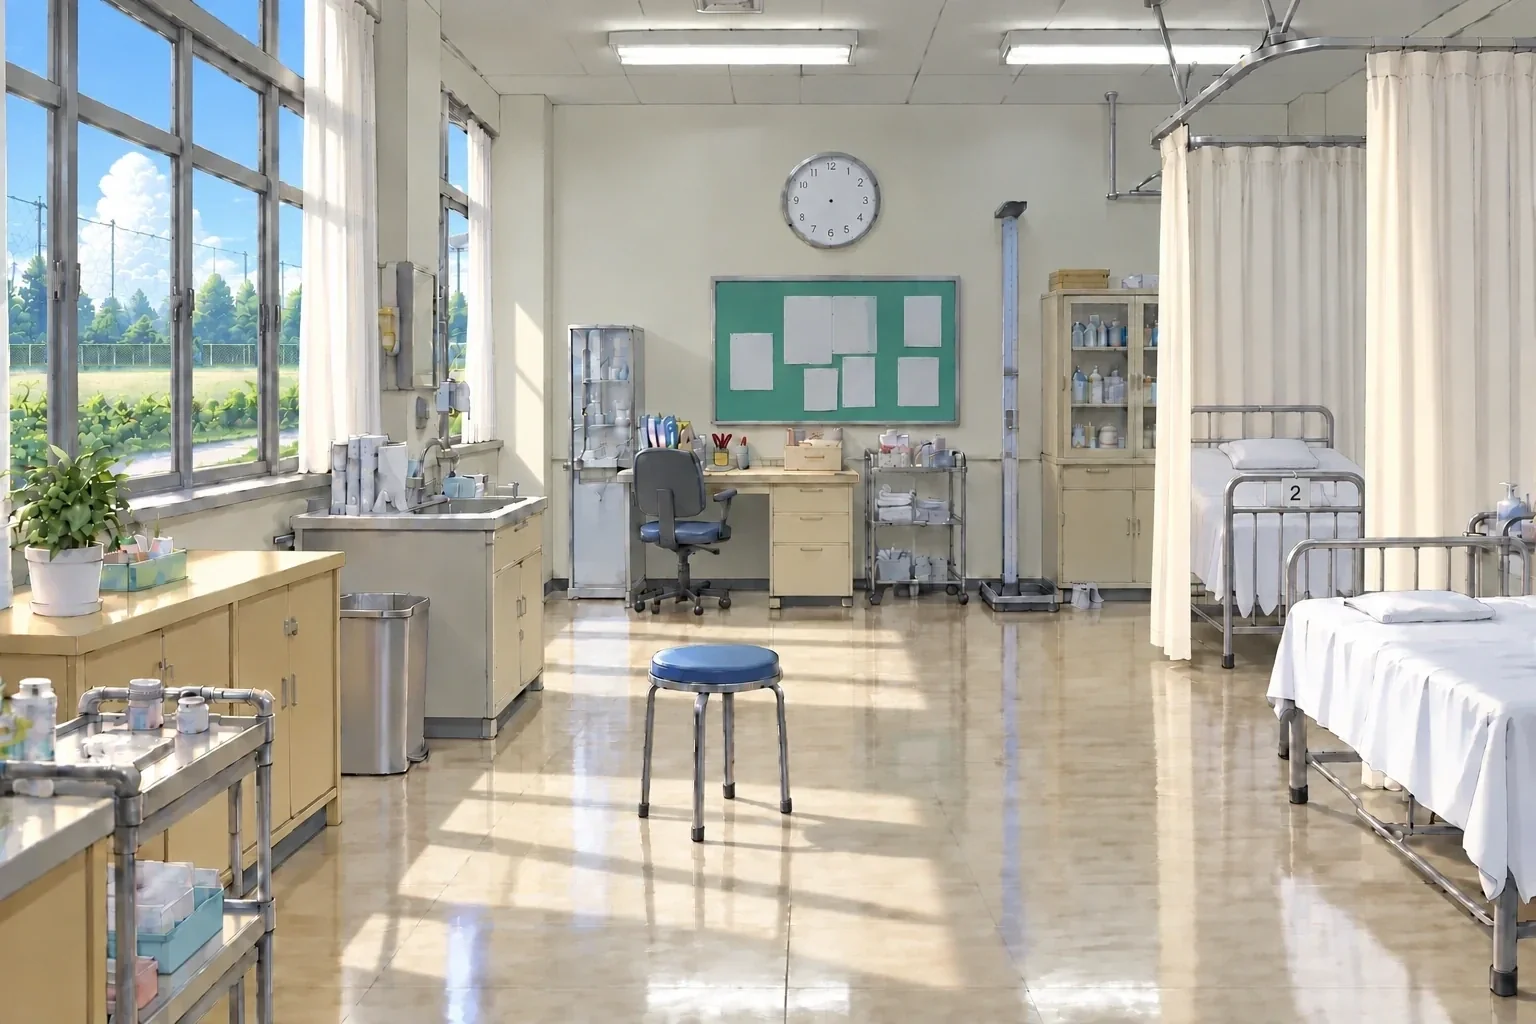
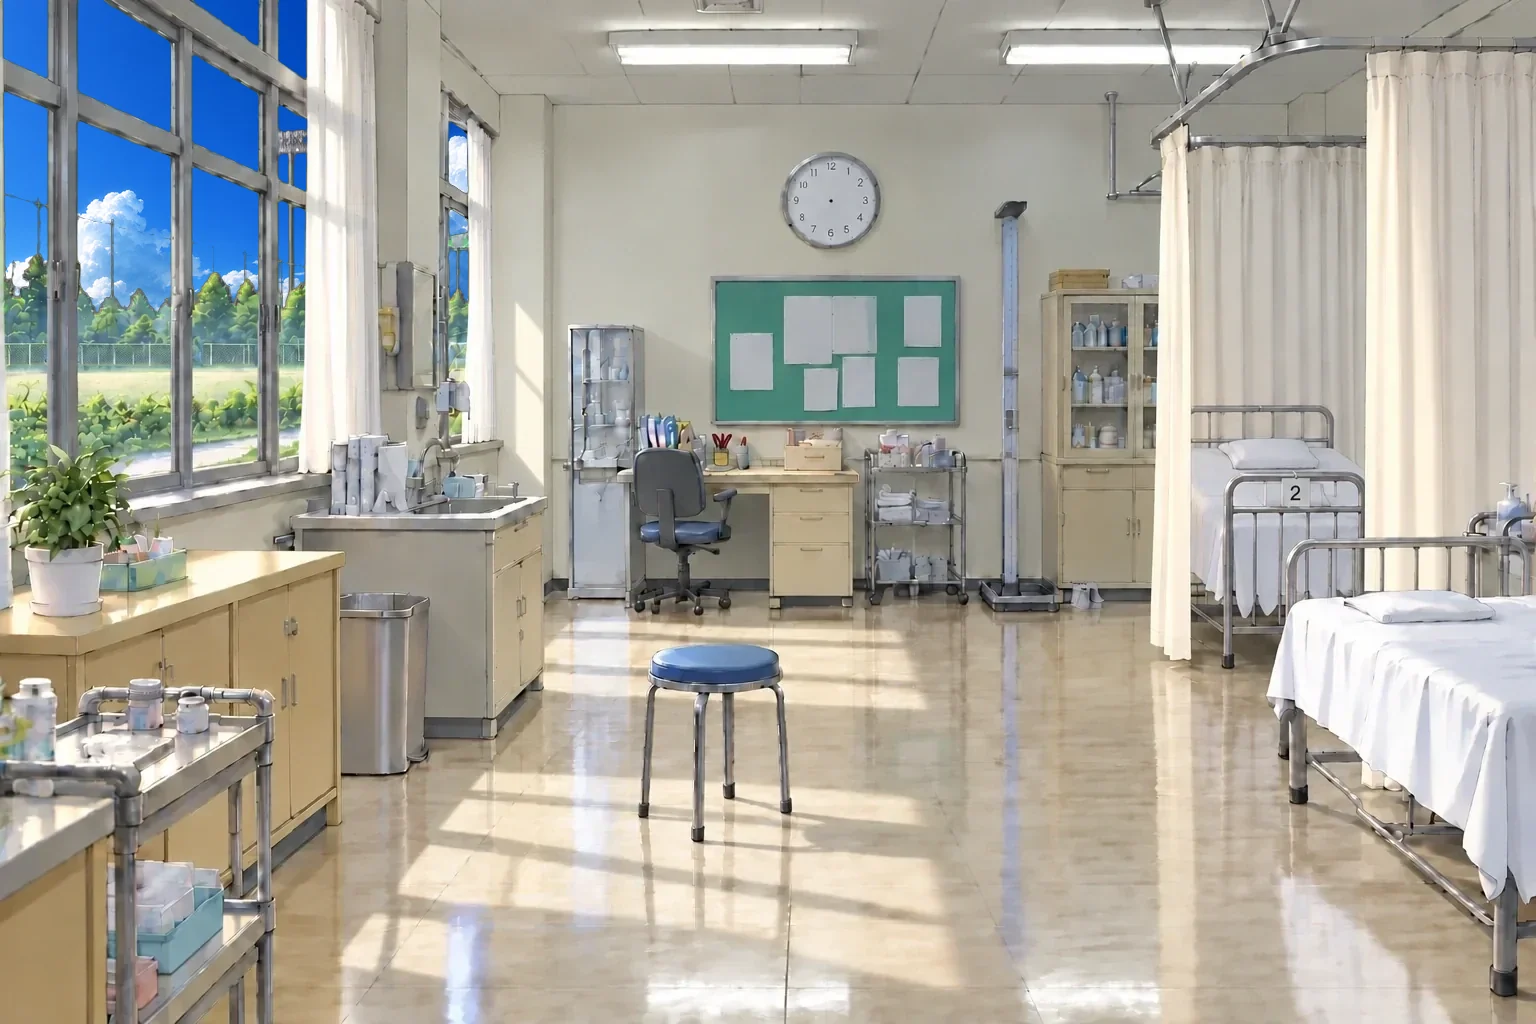
Museの指摘の修正：スマホの時刻を調べた時刻に、TRUEの保健室の窓と空、読み込み中の表示、スケッチブックの説明

Changed region(s): [[0.0, 0.0, 0.2188, 0.4062], [0.2812, 0.125, 0.3125, 0.3438], [0.125, 0.4062, 0.1562, 0.4375]]

diff --git a/index.html b/index.html
@@ -1499,10 +1499,12 @@
     if (DARK_CUTS.has(name) && R && R.taken && R.taken.dark) name += '_dark';
     const el = $('#cutin'); el.classList.remove('nbz', 'fade-slow'); el.dataset.cut = name;
     el.innerHTML = name === 'clock' ? clockSVG() : `<img src="${imgSrc(name)}" alt="">`;
+    if (name.startsWith('lci_phone')) el.insertAdjacentHTML('beforeend', phoneTimeSVG(name));   // ロック画面の時刻（分）を今の時刻に
     if (name === 'clock') {   // 時計の絵を読み込み終えてから、針を出す（針だけが先に見えないように）
       const im = el.querySelector('img'), hs = el.querySelector('svg');
       if (im && hs && !(im.complete && im.naturalWidth)) { hs.style.visibility = 'hidden'; im.onload = im.onerror = () => { hs.style.visibility = ''; }; }
     }
+    imgWait(el);   // 2026-11-18：カットインも、読み込み中は「読み込み中」を出す
     el.classList.add('show');
     $('#scene').classList.add('cut');
   }
@@ -1550,6 +1552,41 @@
     $('#cutin').classList.remove('show');
     $('#scene').classList.remove('cut');
   }
+  // 2026-11-18 作者の指示（Museのテストプレイ）：ミオのスマホのロック画面の時刻を、今の時刻に合わせる。
+  //   絵（lci_phone・lci_phone2）は「17:」だけ残して分の2桁を消してある（チャッピーで消した絵を、分の所だけ元の絵に重ねた）。
+  //   分の2桁を、元の「0」「3」の外形から測った位置・傾きで重ねる（座標は 1536×1024 基準）。端末のフォントに左右されないよう、数字は線で描く
+  const PHONE_DIG = {
+    '0': '<ellipse cx="31" cy="51" rx="26" ry="48"/>',
+    '1': '<path d="M16 22 L38 3 L38 100"/>',
+    '2': '<path d="M7 24 C8 10 19 3 32 3 C47 3 56 13 56 26 C56 44 40 58 6 99 L59 99"/>',
+    '3': '<path d="M7 18 C13 7 22 3 32 3 C46 3 54 12 54 25 C54 39 44 47 27 48 C46 48 58 59 58 74 C58 90 46 99 31 99 C19 99 9 93 4 83"/>',
+    '4': '<path d="M45 100 L45 4 L3 70 L60 70"/>',
+    '5': '<path d="M53 4 L14 4 L9 47 C17 41 24 38 32 38 C48 38 58 52 58 68 C58 88 46 99 31 99 C19 99 9 93 4 83"/>',
+    '6': '<path d="M51 12 C45 5 39 3 32 3 C14 3 5 27 5 54 C5 84 15 99 32 99 C48 99 58 87 58 70 C58 52 48 40 32 40 C18 40 8 50 5 60"/>',
+    '7': '<path d="M4 4 L58 4 L21 100"/>',
+    '8': '<ellipse cx="31" cy="27" rx="22" ry="24"/><ellipse cx="31" cy="74" rx="27" ry="25"/>',
+    '9': '<path d="M11 90 C17 97 24 99 31 99 C49 99 57 75 57 48 C57 18 47 3 30 3 C14 3 4 15 4 32 C4 50 14 62 30 62 C44 62 54 52 57 42"/>',
+    ':': '<circle cx="31" cy="36" r="3"/><circle cx="31" cy="80" r="3"/>',
+  };
+  // 分の十の位・一の位：[左上, 右上, 左下]。2026-11-18 作者の指摘で、元の「17」と同じ傾き（右へ倒れる）・高さ・上端の線にそろえた
+  const PHONE_CELLS = [[[1072.85, 320.6], [1100.85, 323.4], [1061.15, 346.6]], [[1108.85, 324.2], [1136.85, 327.0], [1097.15, 350.2]]];   // 2026-11-18 二度目の指摘：一回り小さく、日付の行と同じパース（右へ下がる線）・「17」と同じ倒れ
+  // 2026-11-18 作者の指示：お母さんの通知（lci_phone2 の一番上）の時刻も、調べた時刻に合わせる（チャイムで巻き戻ったあとに見ても食い違わないように）。「17:」は元の字、分の2桁を重ねる
+  // 2026-11-18 三度目の指摘（ずれ・汚れ）：通知の時刻は「17:」も含めて全部消し、5文字（1・7・:・分の2桁）を同じ線で描く。位置は元の「17:02」の字から測った
+  const PHONE_NOTE_CELLS = [[[1194.44, 395.27], [1200.64, 395.98], [1193.76, 400.82]], [[1200.74, 395.99], [1206.94, 396.7], [1200.06, 401.64]], [[1205.85, 396.58], [1212.05, 397.29], [1205.15, 402.3]], [[1212.35, 397.33], [1218.55, 398.04], [1211.65, 403.15]], [[1220.16, 398.22], [1226.36, 398.94], [1219.44, 404.16]]];
+  function phoneDigits(cells, mm) {
+    return cells.map(([TL, TR, BL], i) => {
+      // 字の外形 (4,3)-(58,99) を、左上・右上・左下の3点へ写す
+      const a = (TR[0] - TL[0]) / 54, b = (TR[1] - TL[1]) / 54, c = (BL[0] - TL[0]) / 96, d = (BL[1] - TL[1]) / 96;
+      return `<g transform="matrix(${a} ${b} ${c} ${d} ${TL[0] - 4 * a - 3 * c} ${TL[1] - 4 * b - 3 * d})">${PHONE_DIG[mm[i]] || ''}</g>`;
+    }).join('');
+  }
+  function phoneTimeSVG(name) {
+    const mm = (($('#clock').textContent || '17:00').split(':')[1] || '00').padStart(2, '0');
+    const note = name === 'lci_phone2'
+      ? `<g fill="none" stroke="#32302e" stroke-width="15" stroke-linecap="round" stroke-linejoin="round" opacity=".95" style="filter: blur(.25px)">${phoneDigits(PHONE_NOTE_CELLS, '17:' + mm)}</g>` : '';
+    return `<svg class="clock-hands" viewBox="0 0 1536 1024" preserveAspectRatio="xMidYMid slice" aria-hidden="true">
+      <g fill="none" stroke="#c4bfb6" stroke-width="5.5" stroke-linecap="round" stroke-linejoin="round" opacity=".85" style="filter: blur(.6px)">${phoneDigits(PHONE_CELLS, mm)}</g>${note}</svg>`;
+  }
   // 時計のカットイン：針のない時計の絵に、今の時刻の針を重ねる（座標は ci_clock 画像 1536×1024 基準）
   function clockSVG() {
     const min = chStart() + (R.st === 'unraveled' ? SPAN + 1 : R.ticks * MIN_PER_TICK);
@@ -1591,7 +1628,7 @@
   function openOverlay(html, cls = '', cardCls = 'ov-card') {
     ov.className = 'overlay ' + cls; card.className = cardCls; card.innerHTML = html; ov.hidden = false;
     if (veilResume && (!replay || !replay.inputs.length)) veilOff();   // 再開の途中で答えを待つ画面が出たら、幕を上げる
-    if (card.querySelector('.alb-view, .alb-pair') || /^アルバム/.test((card.querySelector('.eyebrow') || {}).textContent || '')) imgWait(card);
+    imgWait(card);   // 2026-11-18 作者の指示（Museのテストプレイ）：わすれものの詳細などの絵も、読み込み中は「読み込み中」を出す（アルバムだけだったのを全部に）
     wirePhoneBar(card);
     const f = card.querySelector('.primary, button'); if (f) f.focus({ preventScroll: true });
   }
@@ -1630,7 +1667,13 @@
       if (i.complete && i.naturalWidth) return;
       i.classList.add('img-wait');
       i.addEventListener('load', () => i.classList.remove('img-wait'), { once: true });
-      i.addEventListener('error', () => { i.classList.remove('img-wait'); i.classList.add('img-fail'); i.alt = ''; i.removeAttribute('src'); }, { once: true });
+      // 読み込めなかったときは、一度だけ読み直す。それでもだめなら「読み込めませんでした」
+      let retried = false;
+      const fail = () => {
+        if (!retried && i.getAttribute('src')) { retried = true; const s = i.getAttribute('src'); i.src = s + (s.includes('?') ? '&' : '?') + 'r=' + Date.now(); return; }
+        i.removeEventListener('error', fail); i.classList.remove('img-wait'); i.classList.add('img-fail'); i.alt = ''; i.removeAttribute('src');
+      };
+      i.addEventListener('error', fail);
     });
   }
   function overlayWait(html, cls, buttons) {
@@ -4143,10 +4186,12 @@
                     awk: ['養護の先生が教えてくれた。ツムギは朝、しばらく迷ってから、3組へ行ったって。'],
                     split: ['ツムギは今日も保健室にいた。隣のベッドのふちに座って、窓の外を見ていた。'] }[kind]),
                ]);
-    await whiteSwap(() => { bgClockOverride = '10:50'; syncBgClock(); });   // 8:30 → 10:50（明転）
+    // 2026-11-18 作者の指示：保健室の窓の外の空を時刻に合わせる（8:30 朝／10:50 昼前／11:10 昼。景色は同じ）
+    ['infirmary_1050', 'infirmary_1110'].forEach(n => { const im = new Image(); im.src = `img/${n}.webp`; });
+    await whiteSwap(() => { bgClockOverride = '10:50'; $('#bgImg').src = 'img/infirmary_1050.webp'; syncBgClock(); });   // 8:30 → 10:50（明転）
     await say(['昼前、急に重さが戻ってきた。', '理由は分からない。ただ、息が浅くなった。', '（……やっぱり、何も変わってないのかもしれない）',
                kind === 'split' ? 'ツムギは何も言わずに、ただそこにいてくれた。' : '養護の先生は何も言わずに、ただそこにいてくれた。']);
-    await whiteSwap(() => { bgClockOverride = '11:10'; syncBgClock(); });   // 10:50 → 11:10（明転）
+    await whiteSwap(() => { bgClockOverride = '11:10'; $('#bgImg').src = 'img/infirmary_1110.webp'; syncBgClock(); });   // 10:50 → 11:10（明転）
     await say(['終業式が終わって、扉が叩かれた。',
                ...({ straight: ['入ってきたのは、ヒナとソウタとケイ。それからミオとツムギが、二人で。', 'ミオは丸椅子を一つ運んできて、ツムギの隣に置いて座った。'],
                     awk: ['入ってきたのは、ヒナとソウタとケイ。それから、ミオとツムギ。',   // 2026-11-17 作者の指示：遅れて来る理由がないので、ほかの3人と同時に来る '二人は隣に座ったけれど、間に少しすき間があった。',
@@ -4866,7 +4911,7 @@
       <img src="img/sky.webp" alt=""><img id="greyLayer" class="grey" src="img/sky.webp" alt=""></div>`;   // 2026-11-15：サインは絵の中（新しい紙に今日描いた絵なので「7.15 Hina」。破られた絵は「7.14 Hina」）
   }
   const SKETCH_FACE = `<img class="sketch" src="img/sketchbook_face.webp" alt="スケッチブックの最後のページ。自画像の真っ白だった顔に、震える細い線で、泣きそうで少しだけ笑った目元が描かれている">`;
-  const SKETCH = `<img class="sketch" src="img/sketchbook.webp" alt="破り取られたページの残るスケッチブック。最後のページの自画像は、顔だけが消されている">`;
+  const SKETCH = `<img class="sketch" src="img/sketchbook.webp" alt="破り取られたページの残るスケッチブック。最後のページの自画像は、顔だけが消されて、紙が毛羽立ち、ところどころ破れている">`;
   async function combinePainting() {
     ['pieceA', 'pieceB', 'pieceC'].forEach(p => R.items.delete(p));
     R.items.add('painting'); render();
@@ -5191,12 +5236,12 @@
       await say(['窓際の席に、ヒナの姿はなかった。', '椅子の上にスケッチブックが一冊だけ残っている。']);
       await overlayWait(`<p class="eyebrow">わすれもの</p><h2>顔のないスケッチブック</h2>${SKETCH}
         <p>ほとんどのページは破り取られていた。最後のページにだけ、女の子の絵が残っている。</p>
-        <p>髪も、長袖の制服も、細かく描き込まれているのに、顔だけが真っ白だった。消しゴムで何度も消した跡がある。</p>`, '', ['閉じる']);
+        <p>髪も、長袖の制服も、細かく描き込まれているのに、顔だけが真っ白だった。消しゴムで何度もこすった紙が毛羽立って、ところどころ小さく破れている。</p>`, '', ['閉じる']);
     },
     shelfItem(saved) {
       return saved
         ? { thumb: 'sketchbook_face', title: '顔のあるスケッチブック', body: `${SKETCH_FACE}<p>真っ白だった顔に、ヒナが自分で線を引いた。まだ目元だけ。震えていて、泣きそうで、少しだけ笑っている。</p>` }
-        : { thumb: 'sketchbook', title: '顔のないスケッチブック', body: `${SKETCH}<p>最後のページの自画像。顔だけが、何度も消されて真っ白になっている。</p>` };
+        : { thumb: 'sketchbook', title: '顔のないスケッチブック', body: `${SKETCH}<p>最後のページの自画像。顔だけが、何度も消されて真っ白になっている。こすりすぎた紙は毛羽立って、ところどころ破れている。</p>` };
     },
     async talk() {
       if (R.st === 'vanished') return say(['椅子の上には、スケッチブックだけが残っている。']);
@@ -6771,7 +6816,7 @@
                    //   まばたきなど体が勝手にする動きは止まらない（自分では止めることも動かすこともできない）
                    ['', '返事はなかった。まばたきだけが、ときどき、思い出したように落ちる。', 'frown'],
                    '長い針が、もうひと目盛り進んだ。',
-                   //   硬直は一度に解けない。口元だけが先に動く
+                   //   硬直は一度に解けることも、少しずつ解けることもある。どこから動くかも決まっていない（指先・足先のことも）。今回のミオは少しずつ解けて、口元だけが先に動いた
                    ['', 'やがて、体は止まったまま、唇だけがかすかに動いた。', 'frown'],
                    ['ミオ', '……分かってる。……分かってる、けど', 'down'],
                    ['', 'その先を言おうとして、また唇が止まった。……声にならなかった。', 'down'], ...missing]);
